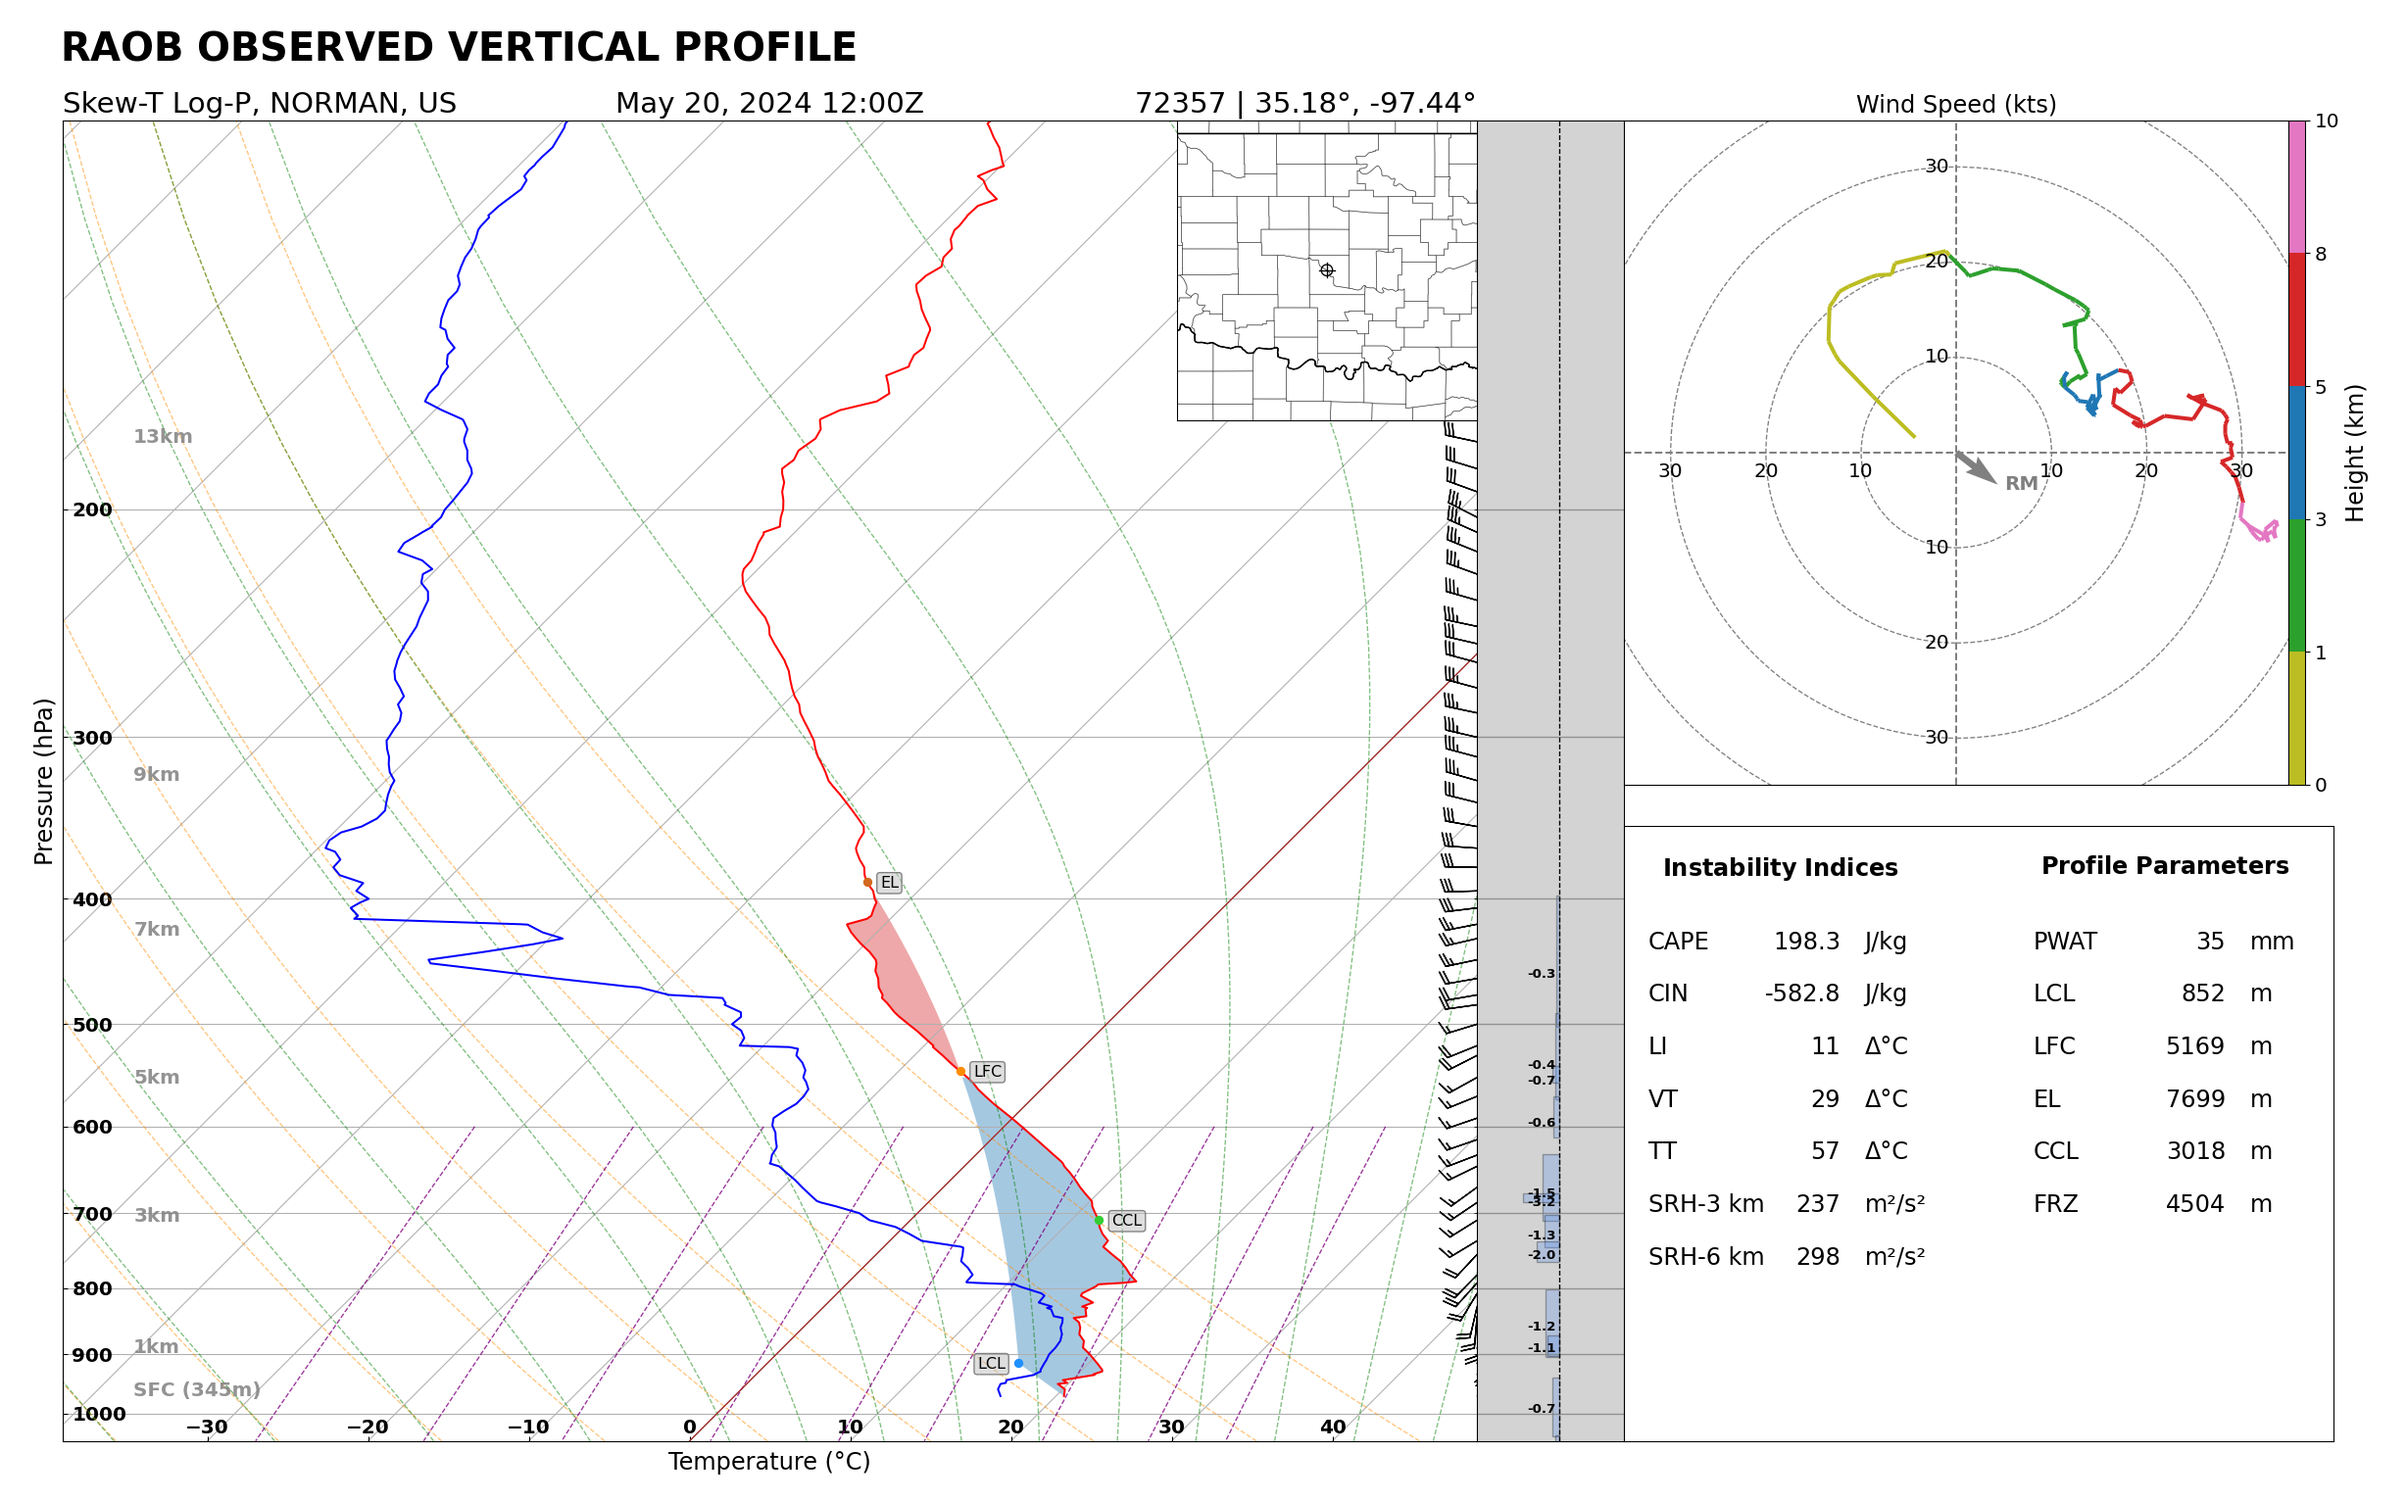
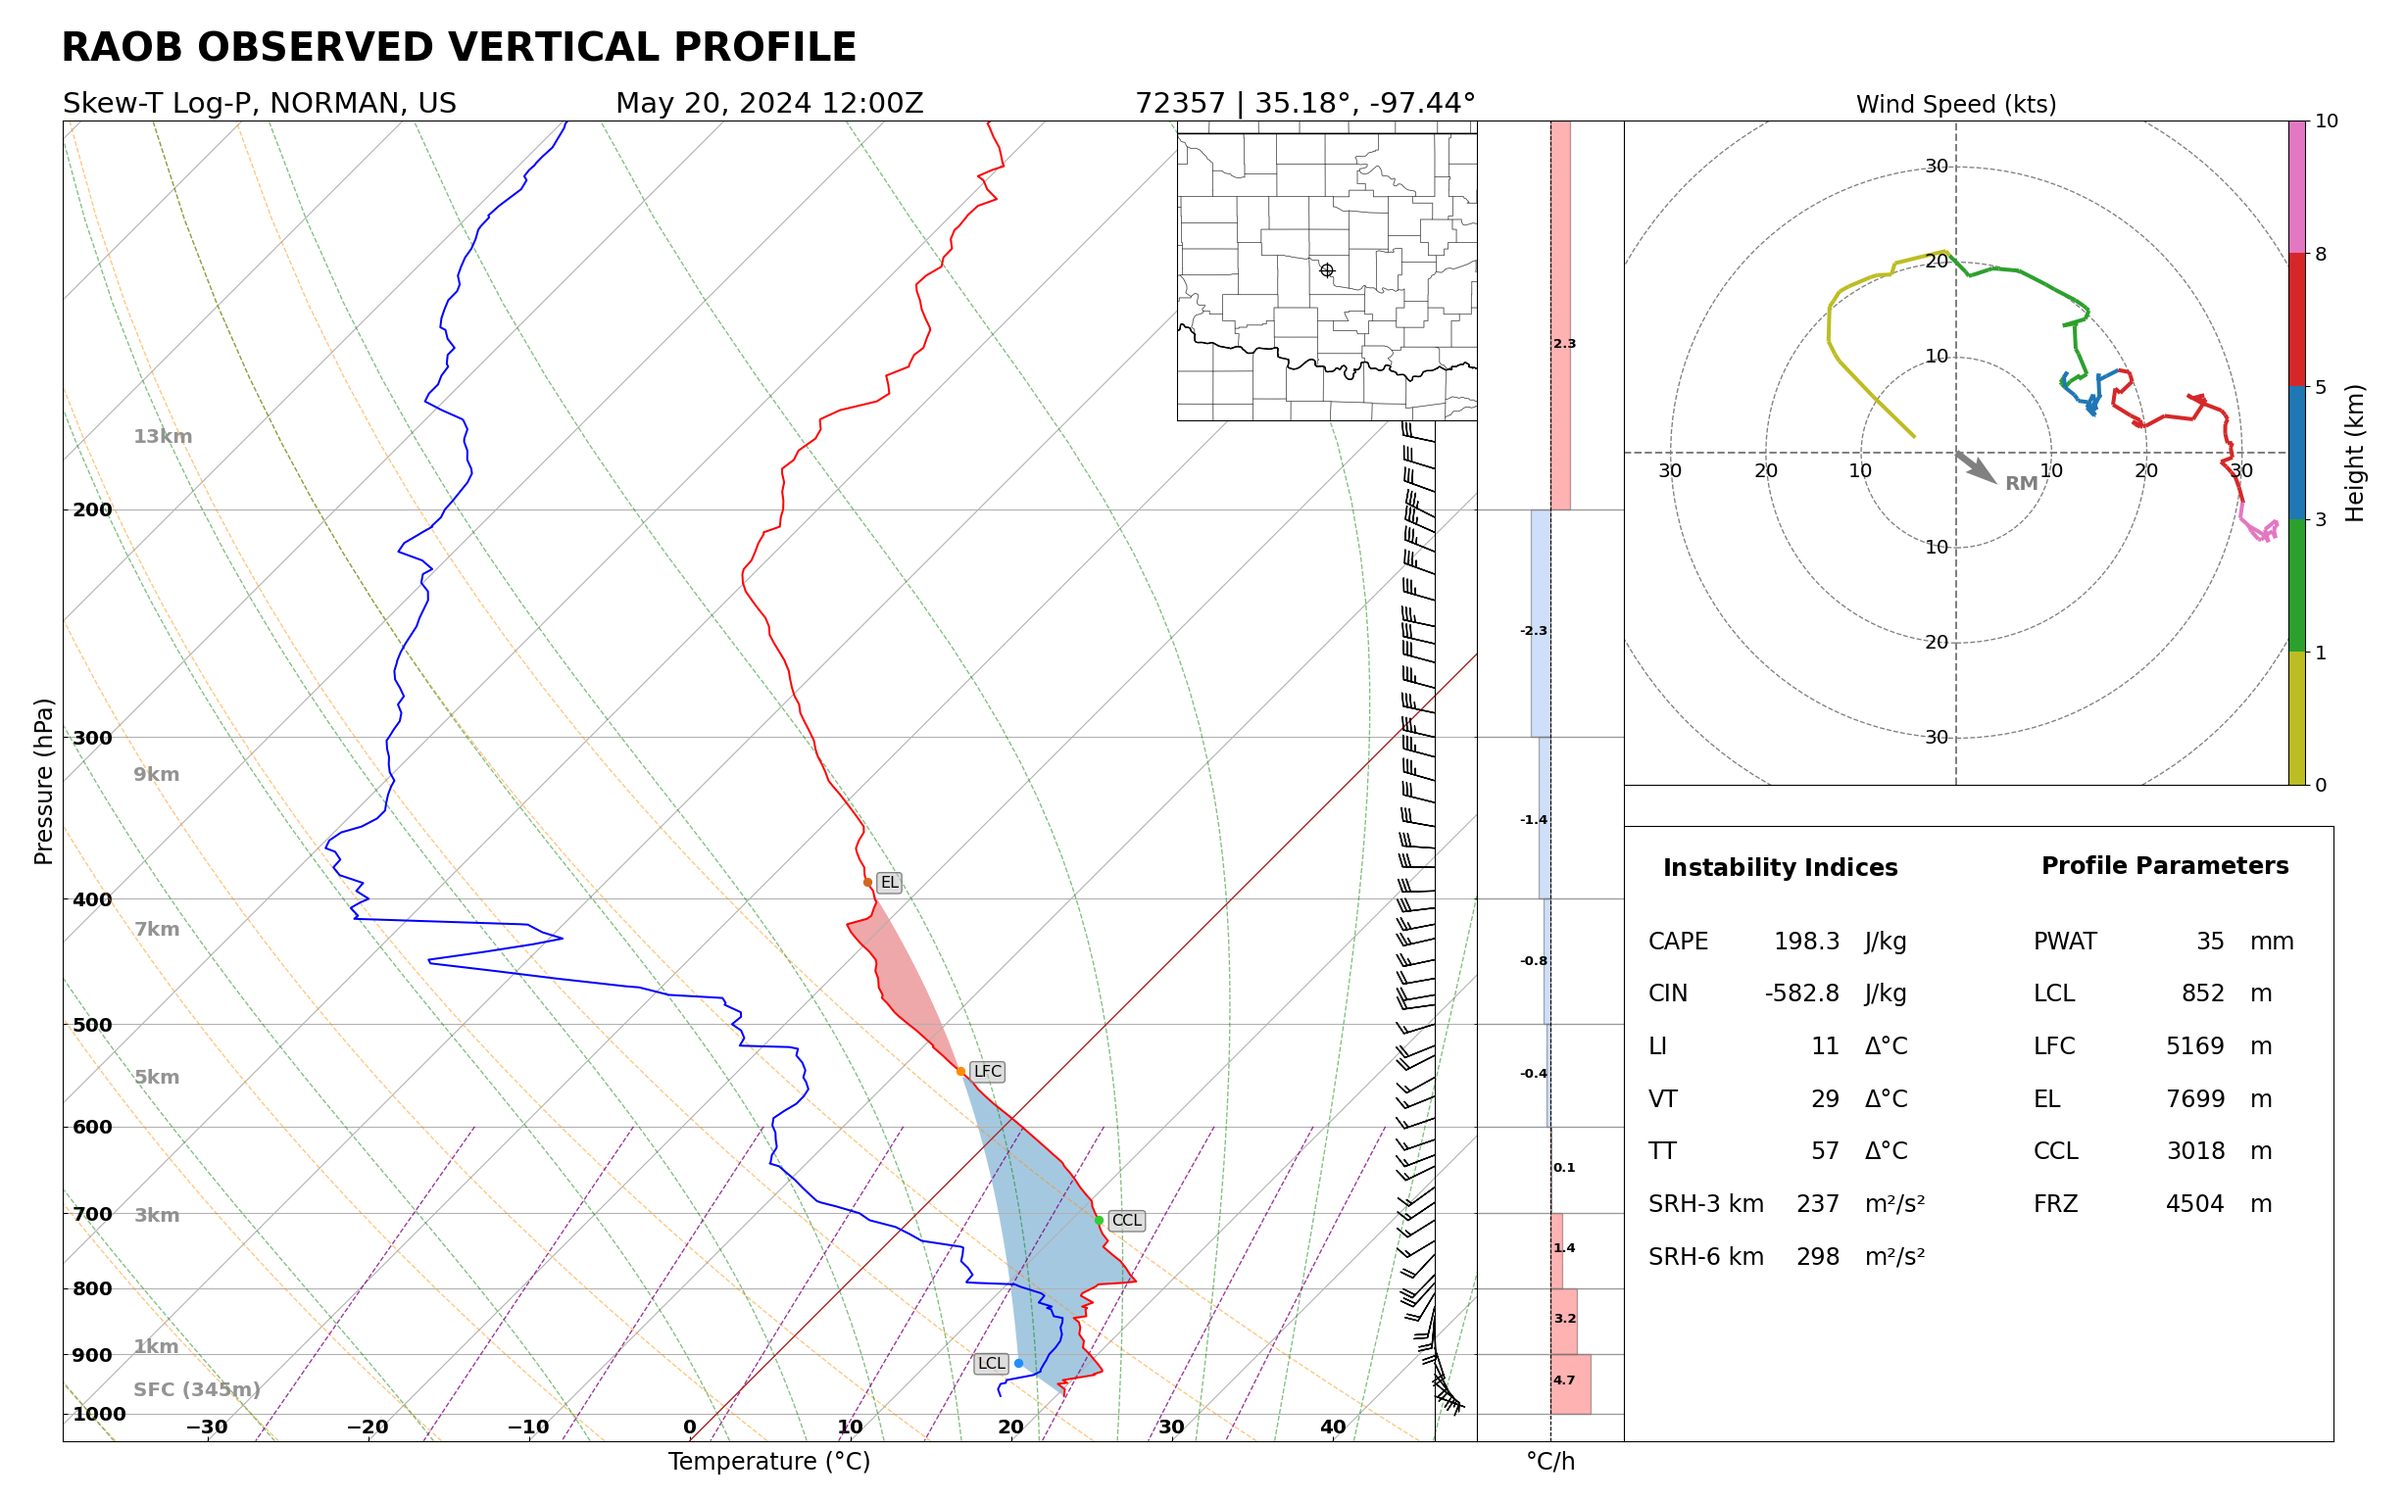
Update files

Changed region(s): [[0.5882, 0.0614, 0.6811, 0.9817]]

diff --git a/skewT_plot.py b/skewT_plot.py
@@ -35,7 +35,11 @@ def skewT_plot(pressures, temperatures, dewpoints, wind_u, wind_v, heights, elev
     skew.ax.axvline(0, color='brown', linestyle='-', linewidth=1)
     skew.plot(pressures * units.hPa, temperatures * units.degC, 'r', label='Temperature')
     skew.plot(pressures * units.hPa, dewpoints * units.degC, 'b', label='Dew Point')
-    skew.plot_barbs(pressures_short[::3] * units.hPa, wind_u_short[::3] * units.meter / units.second, wind_v_short[::3] * units.meter / units.second)
+    skew.plot_barbs(pressures_short[::3] * units.hPa, wind_u_short[::3] * units.meter / units.second,
+        wind_v_short[::3] * units.meter / units.second, xloc=0.97)
+    trans, _, _ = skew.ax.get_yaxis_text1_transform(0)  # Transformation for the y-axis text alignment
+    plt.plot([0.97, 0.97], [100, 1050], 
+         color='black', linestyle='-', linewidth=0.8, transform=trans)
     
     # Add special lines with labels
     skew.plot_dry_adiabats(linewidth=1, colors='darkorange', label='Dry Adiabats')
@@ -71,7 +75,6 @@ def skewT_plot(pressures, temperatures, dewpoints, wind_u, wind_v, heights, elev
     # Add height axis
     for height in [1000, 3000, 5000, 7000, 9000, 13000]:
         pressure = height_to_pressure(height, heights, pressures)
-        trans, _, _ = skew.ax.get_yaxis_text1_transform(0)  # Transformation for the y-axis text alignment
         skew.ax.text(
             0.05, pressure,
             f"{int(height / 1000)}km",
@@ -102,52 +105,80 @@ def skewT_plot(pressures, temperatures, dewpoints, wind_u, wind_v, heights, elev
     skew.ax.set_title(f'{station_id} | {lat:.2f}°, {lon:.2f}°', loc='right', fontsize=22)
 
     # Temperature advection ---------------------------------------------------------------------------------------------------
-    temp_adv = temp_advection(temperatures, wind_u, wind_v, heights, lat)
+    # Define pressure layers (boundaries)
+    layer_bounds = [1000, 900, 800, 700, 600, 500, 400, 300, 200, 100]
 
-    # Compute top and bottom bounds for each bin
-    bot_arr, top_arr = np.hsplit(np.column_stack((heights[:-1], heights[1:])), 2)
-    temp_adv = temp_adv[:-1]  # Trim last value
-  
+    # Compute temperature advection values
+    temp_adv = temp_advection(temperatures, pressures, wind_u, wind_v, heights, lat)
+
+    # Aggregate temperature advection values for each pressure layer
+    layer_temp_adv = []  # Averaged temperature advection for each layer
+    for i in range(len(layer_bounds) - 1):
+        # Find indices of pressures within the current layer
+        layer_mask = (pressures[:-1] >= layer_bounds[i + 1]) & (pressures[:-1] < layer_bounds[i])
+        
+        # Compute the mean temperature advection for this layer
+        if np.any(layer_mask):  # Ensure there are values in this layer
+            mean_adv = np.mean(temp_adv[layer_mask])
+            layer_temp_adv.append(mean_adv)
+        else:
+            layer_temp_adv.append(np.nan)  # No data in this layer
+
+    # Prepare top and bottom bounds for each bar
+    bot_arr = layer_bounds[:-1]  # Bottom of each layer
+    top_arr = layer_bounds[1:]   # Top of each layer
+
     # Add temp_adv plot to the right
     temp_adv_ax = fig.add_axes((0.614, 0.04, 0.061, 0.88))  # Adjust position and size (x, y, width, height)
-    
+
     # Set plot styles
     temp_adv_ax.spines["top"].set_color('black')
     temp_adv_ax.spines["left"].set_color('black')
     temp_adv_ax.spines["right"].set_color('black')
     temp_adv_ax.spines["bottom"].set_color('black')
-    temp_adv_ax.set_facecolor('lightgray')
 
     # Set axis limits and scaling
     temp_adv_ax.set_yscale('log')
     temp_adv_ax.set_ylim(1050, 100)
-    temp_adv_ax.set_xlim(np.nanmin(temp_adv) - 4, np.nanmax(temp_adv) + 4)
+    temp_adv_ax.set_xlim(-np.nanmax(np.abs(layer_temp_adv)) - 4, np.nanmax(np.abs(layer_temp_adv)) + 4)
     temp_adv_ax.set_yticklabels([]), temp_adv_ax.set_xticklabels([])
     temp_adv_ax.tick_params(axis='y', length=0), temp_adv_ax.tick_params(axis='x', length=0)
 
     # Draw horizontal reference lines
     lvls = [1000, 900, 800, 700, 600, 500, 400, 300, 200]
     for lvl in lvls:
-        temp_adv_ax.plot((-20, 20), (lvl, lvl), color='gray', alpha=0.8, linewidth=1, linestyle='-', clip_on=True)
+        temp_adv_ax.plot((-np.nanmax(np.abs(layer_temp_adv)) - 4, np.nanmax(np.abs(layer_temp_adv)) + 4),
+            (lvl, lvl), color='gray', alpha=0.8, linewidth=1, linestyle='-', clip_on=True)
 
     # Plot temperature advection bars
-    for i in range(len(temp_adv)):
-        color = 'red' if temp_adv[i] > 0 else 'cornflowerblue'
-        
-        temp_adv_ax.barh(top_arr[i], temp_adv[i], align='center',
-                        height=bot_arr[i] - top_arr[i], edgecolor='black',
-                        alpha=0.3, color=color)
+    for i in range(len(layer_temp_adv)):
+        if not np.isnan(layer_temp_adv[i]):  # Skip layers with no data
+            color = 'red' if layer_temp_adv[i] > 0 else 'cornflowerblue'
+            
+            temp_adv_ax.barh(
+                (top_arr[i] + bot_arr[i]) / 2,  # Center of the bar
+                layer_temp_adv[i],  # Advection value
+                align='center',
+                height=bot_arr[i] - top_arr[i],  # Height of the bar
+                edgecolor='black',
+                alpha=0.3,
+                color=color
+            )
 
-        # Add annotations for temperature advection values
-        if abs(temp_adv[i]) > 0.1:  # Threshold to avoid clutter
-            ha = 'left' if temp_adv[i] > 0 else 'right'
-            x_offset = 0.3 if temp_adv[i] > 0 else -0.3
-            temp_adv_ax.annotate(f"{temp_adv[i]:.1f}", 
-                                xy=(x_offset, top_arr[i] + 10), color='black',
-                                textcoords='data', ha=ha, weight='bold')
+            # Add annotations for temperature advection values
+            if abs(layer_temp_adv[i]) > 0.1:  # Threshold to avoid clutter
+                ha = 'left' if layer_temp_adv[i] > 0 else 'right'
+                x_offset = 0.3 if layer_temp_adv[i] > 0 else -0.3
+                temp_adv_ax.annotate(
+                    f"{layer_temp_adv[i]:.1f}", 
+                    xy=(x_offset, (top_arr[i] + bot_arr[i]) / 2),  # Center of the bar
+                    color='black',
+                    textcoords='data', ha=ha, weight='bold'
+                )
 
     # Add a vertical reference line at x=0
-    temp_adv_ax.axvline(x=0, color='black', linewidth=1, linestyle='--', clip_on=True)
+    temp_adv_ax.axvline(x=0, color='black', linewidth=0.8, linestyle='--', clip_on=True)
+    temp_adv_ax.set_xlabel('°C/h', fontsize=18)
 
     #  Calculate above ground level (AGL) heights -----------------------------------------------------------------------------
     agl = (heights - heights[0]) / 1000

diff --git a/calc.py b/calc.py
@@ -13,14 +13,14 @@ def height_to_pressure(height_level, heights, pressures):
     pressure_interp = interp1d(heights[::-1], pressures[::-1], bounds_error=False, fill_value=np.nan)
     return pressure_interp(height_level)
 
-def temp_advection(temperatures, wind_u, wind_v, heights, lat):
+def temp_advection(temperatures, pressures, wind_u, wind_v, heights, lat):
     """
-    Compute temperature advection in °C/s considering both horizontal wind components.
+    Compute temperature advection in °C/h.
 
     Parameters:
     - temperatures: Array of temperatures (K or °C)
-    - wind_u: U-component of wind (knots) → will be converted to m/s
-    - wind_v: V-component of wind (knots) → will be converted to m/s
+    - pressures: Corresponding pressures (hPa or mb)
+    - wind_u, wind_v: U/V components of wind (knots)
     - heights: Corresponding heights (m)
     - lat: Latitude for Coriolis effect
 
@@ -28,25 +28,34 @@ def temp_advection(temperatures, wind_u, wind_v, heights, lat):
     - temp_adv: Temperature advection (°C/h)
     """
 
-    wind_u = wind_u * 0.51444
+    wind_u = wind_u * 0.51444  # Convert to m/s
     wind_v = wind_v * 0.51444
 
-    # Compute temperature gradient (dT/dz)
-    dTdz = np.gradient(temperatures, heights)
-    print(dTdz[:4])
+    # Calculate temperature gradient (dT/dz or dT/dp)
+    dTdp = np.gradient(temperatures, pressures)
+    dTdz = -dTdp * (pressures / (287.05 * temperatures))  # Convert to dT/dz
 
-    # Compute wind speed and direction
-    wind_speed = np.sqrt(wind_u**2 + wind_v**2)  # Wind magnitude (m/s)
-    wind_dir = np.arctan2(wind_v, wind_u) * (180 / np.pi)  # Convert to degrees
-    print(wind_speed[:4])
-    print(wind_dir[:4])
+    # Compute average temperature and mean wind for layers
+    avg_temp = (temperatures[:-1] + temperatures[1:]) / 2
+    mean_u = (wind_u[:-1] + wind_u[1:]) / 2
+    mean_v = (wind_v[:-1] + wind_v[1:]) / 2
+    wind_speed = np.sqrt(mean_u**2 + mean_v**2)
 
-    # Compute Coriolis parameter f (s⁻¹)
-    omega = 2 * np.pi / 86164  # Earth's rotation rate (rad/s)
-    f = 2 * omega * np.sin(np.radians(lat))  # Coriolis parameter
+    # Calculate directional change (d_theta)
+    wind_dir_bot = np.arctan2(wind_v[:-1], wind_u[:-1]) * (180 / np.pi)
+    wind_dir_top = np.arctan2(wind_v[1:], wind_u[1:]) * (180 / np.pi)
 
-    # Compute advection: -Vg * (dT/dz) (SHARPpy-style)
-    temp_adv = - (f / 9.81) * wind_speed**2 * dTdz * 3600
-    print(temp_adv[:4])
+    mod = 180 - wind_dir_bot
+    wind_dir_top += mod
+    wind_dir_top = np.where(wind_dir_top < 0, wind_dir_top + 360, wind_dir_top)
+    wind_dir_top = np.where(wind_dir_top >= 360, wind_dir_top - 360, wind_dir_top)
+    d_theta = wind_dir_top - 180
+
+    # Coriolis parameter
+    omega = 2 * np.pi / 86164
+    f = abs(2 * omega * np.sin(np.radians(lat)))
+
+    # Temperature advection
+    temp_adv = -(f / 9.81) * wind_speed**2 * avg_temp * (d_theta / np.diff(heights)) * 3600  # °C/h
 
     return temp_adv
